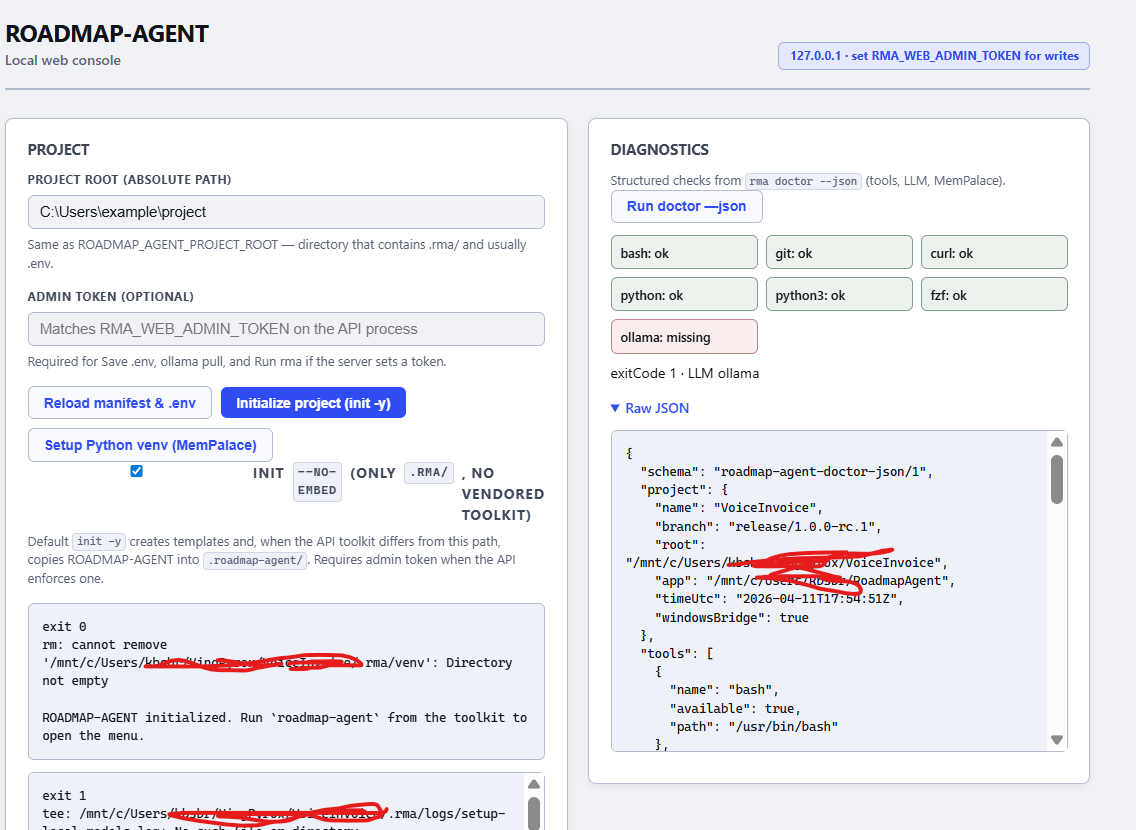
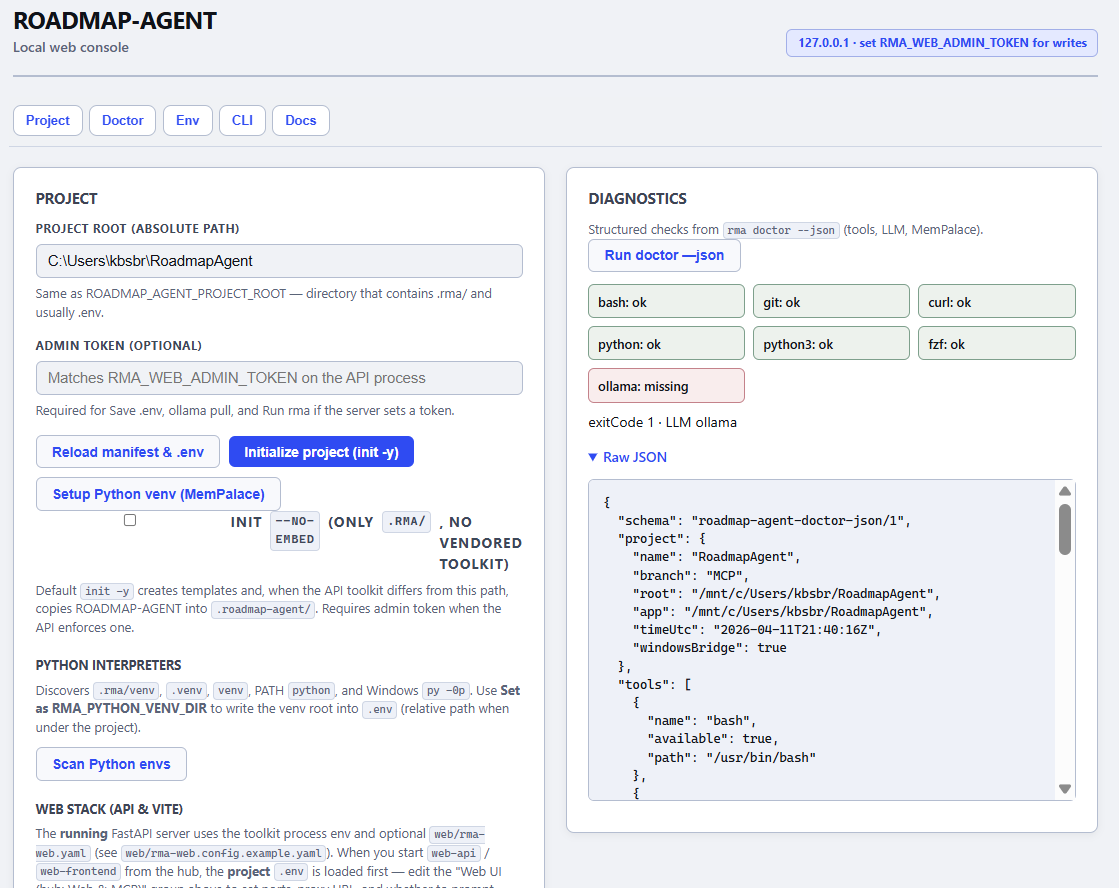
MCP implementation

diff --git a/web/frontend/src/envConfig.ts b/web/frontend/src/envConfig.ts
@@ -137,7 +137,8 @@ export const ENV_HINTS: Record<string, string> = {
     '1 = if the API or Vite port is busy, prompt (y/N) to run fuser/lsof kill on that TCP port before starting. 0 = fail immediately.',
   RMA_WEB_VITE_PROXY_TARGET:
     'Full base URL for the API from the browser (e.g. http://127.0.0.1:8765). Exported when starting Vite so /api proxies correctly.',
-  RMA_MCP_TRANSPORT: 'MCP transport (default stdio). See docs/MCP-SERVER.md.',
+  RMA_MCP_TRANSPORT:
+    'CLI default when unset: streamable-http (background). Use stdio for Cursor/Claude command MCP. See docs/MCP-SERVER.md.',
   RMA_MCP_NAME: 'Display name of the MCP server for hosts.',
   RMA_MCP_ALLOW_SHELL: '1 = allow run_shell tool (use only on trusted projects).',
   RMA_MCP_PROJECT_ROOT: 'Optional project path override for MCP (relative or absolute).',
@@ -146,7 +147,7 @@ export const ENV_HINTS: Record<string, string> = {
   RMA_MCP_HOST: 'Bind address for streamable-http / sse (default 127.0.0.1).',
   RMA_MCP_PORT: 'TCP port for streamable-http / sse (default 8767).',
   RMA_MCP_DETACH:
-    '1 = mcp-start runs the HTTP MCP server in the background (nohup); log under .rma/mcp/nohup.log. stdio cannot detach.',
+    'CLI default when unset: 1 (HTTP MCP via nohup; .rma/mcp/nohup.log). 0 or mcp-start --foreground keeps the shell. Ignored for stdio.',
   RMA_MCP_FORCE:
     '1 = before starting, stop the MCP PID from .rma/mcp/runtime.json (best-effort). Use when replacing a stuck server.',
 }

diff --git a/rma_mcp/server.py b/rma_mcp/server.py
@@ -225,6 +225,7 @@ def run_shell(command: str, timeout_seconds: int = 120) -> str:
 
 
 def main() -> None:
+    # Default stdio when env unset — `mcp-start` sets RMA_MCP_TRANSPORT explicitly (default streamable-http there).
     transport = os.environ.get("RMA_MCP_TRANSPORT", "stdio").strip().lower()
     os.environ.setdefault("ROADMAP_AGENT_PROJECT_ROOT", str(project_root()))
     os.environ.setdefault("ROADMAP_AGENT_APP_ROOT", str(app_root()))

diff --git a/rma_mcp/__main__.py b/rma_mcp/__main__.py
@@ -1,4 +1,4 @@
-"""python -m rma_mcp (stdio MCP server by default)."""
+"""python -m rma_mcp (RMA_MCP_TRANSPORT; default stdio when unset — use mcp-start for HTTP defaults)."""
 
 from rma_mcp.server import main
 

diff --git a/README.md b/README.md
@@ -33,7 +33,7 @@
 | **[`CHANGELOG.md`](CHANGELOG.md)** | Release history — pair with **`VERSION`** and git tags (`v1.0.0`, …). |
 | **[`docs/RELEASING.md`](docs/RELEASING.md)** | Shipping — tags, GitHub releases, archives, Docker; no required binary artifact. |
 | **[`web/README.md`](web/README.md)** | Optional web UI — FastAPI + React, guided/advanced `.env` editor, `doctor --json`, model probes, Docker, **`VITE_DOCS_BASE`**. |
-| **[`docs/MCP-SERVER.md`](docs/MCP-SERVER.md)** | **MCP** (Model Context Protocol) — stdio server for Cursor/Claude/etc.: `.rma/` context, `rma plan`/`analyze`, scoped file tools, optional shell. |
+| **[`docs/MCP-SERVER.md`](docs/MCP-SERVER.md)** | **MCP** — default **streamable-http** (background) from the CLI; **stdio** for Cursor/Claude command config. `.rma/` context, `rma plan`/`analyze`, scoped file tools, optional shell. |
 
 Project memory lives in **`.rma/`**; plans and execution run from the **terminal** with **local LLMs** (Ollama by default) when you want repo-aware help — **no** hosted dashboard or vendor lock-in for the core workflow.
                                                                                                                                                                   
@@ -83,7 +83,7 @@ This stack is **local-first**: a **desktop MCP host** (Claude Desktop, Cursor, W
 
 - **Resource URI** is **`roadmap://context`**, not a separate `context://` scheme. The bundle is **Markdown from `.rma/`** — it does **not** auto-inject MemPalace vector hits. For retrieval-aware **plan** generation inside the CLI, use **`plan`** with an indexed **`.rma/mempalace`** (wake-up) as documented elsewhere; from MCP you can run **`rma_doctor`**, **`read_project_file`**, or **`run_shell`** (if enabled) toward the same goals.
 - **There is no `RMA_MCP_APPROVAL_MODE` env var** in this repo. Risk is mitigated by **keeping `RMA_MCP_ALLOW_SHELL=0`**, relying on your **host’s tool-approval UI**, and reading **`docs/MCP-SERVER.md`** for transport and logging (**`.rma/mcp/logs/`**).
-- **Suggested `.env` for capable local models:** `RMA_MCP_TRANSPORT=stdio`, optional `RMA_MCP_ALLOW_SHELL=1` only on trusted trees, and **`RMA_MCP_MAX_STEPS`** as a hint to clients (not enforced server-side). Use **`rma mcp-start --detach`** / **`RMA_MCP_DETACH=1`** with **`streamable-http`** or **`sse`** if you need a background URL (see **`docs/MCP-SERVER.md`**).
+- **Defaults:** `RMA_MCP_TRANSPORT=streamable-http` and **`RMA_MCP_DETACH=1`** (hub/`mcp-start` release the terminal; URL in **`.rma/mcp/runtime.json`**). For **stdio** hosts, set **`RMA_MCP_TRANSPORT=stdio`** and **`RMA_MCP_DETACH=0`**. Optional **`RMA_MCP_ALLOW_SHELL=1`** only on trusted trees; **`RMA_MCP_MAX_STEPS`** is a client hint (see **`docs/MCP-SERVER.md`**).
 
 **Bootstrap:** from the project root, `./RUN.sh mcp-start` or `.\RUN.ps1 mcp-start` (after your usual venv bootstrap) or configure the host to run `python -m rma_mcp` with **`PYTHONPATH`** and **`ROADMAP_AGENT_*_ROOT`** set — see **`rma_mcp/client-config.example.json`**.
 
@@ -180,7 +180,7 @@ RoadmapAgent/
     ROADMAP-WORKFLOW.md
     ARCHITECTURE.md
     TROUBLESHOOTING.md
-    MCP-SERVER.md            # MCP host setup, tools, safety (stdio / streamable-http)
+    MCP-SERVER.md            # MCP host setup, tools, safety (default HTTP+detach; stdio opt-in)
     MANUAL.md                # Detailed operator manual (usage, .rma editing, commands)
     man/
       roadmap-agent.1
@@ -392,7 +392,7 @@ That script rebuilds `$env:Path` from the Machine + User registry values (the sa
 - `unlock` - remove locked state.
 - `persistence` / `persistance` - check/install persistence mode.
 - `persistence-check` - check if persistence/global command wiring exists.
-- `mcp-start` - run the optional **Model Context Protocol** server (stdio by default; optional **`--detach`** / **`--force`** with HTTP transports); hub: **Web & MCP**. See **[`docs/MCP-SERVER.md`](docs/MCP-SERVER.md)** and [MCP + local LLM + IDE agents](#mcp-server-local-llm-and-ide-agents-how-they-fit-together) above.
+- `mcp-start` - run the **MCP** server (defaults: **streamable-http** + background; **`--foreground`** / **`RMA_MCP_DETACH=0`** to block the shell; **`--force`**; **stdio** via `.env`). Hub: **Web & MCP**. See **[`docs/MCP-SERVER.md`](docs/MCP-SERVER.md)** and [MCP + local LLM + IDE agents](#mcp-server-local-llm-and-ide-agents-how-they-fit-together) above.
 - `help`, `-h`, `--help` - command help.
 - default (no command): open interactive menu.
 

diff --git a/DOCS/MCP-SERVER.md b/DOCS/MCP-SERVER.md
@@ -4,7 +4,7 @@ ROADMAP-AGENT can expose a **local MCP server** so Cursor, Claude Desktop, Winds
 
 - **Protocol:** [Model Context Protocol](https://modelcontextprotocol.io)  
 - **SDK:** Python `mcp[cli]` (see `requirements-mcp.txt`)  
-- **Entry:** `rma mcp-start` or hub **Web & MCP → MCP server** (stdio)
+- **Entry:** `rma mcp-start` or hub **Web & MCP → MCP server** (defaults: **streamable-http** + background)
 
 ## Prerequisites
 
@@ -36,10 +36,10 @@ The interactive hub banner and **runtime warnings** panel print a one-line MCP s
 | `ROADMAP_AGENT_APP_ROOT` | auto | Toolkit root (set by `mcp-start`). |
 | `ROADMAP_AGENT_PROJECT_ROOT` | cwd / `mcp-start` | Managed repo with `.rma/`. |
 | `RMA_MCP_PROJECT_ROOT` | — | Optional relative (to shell `ROOT_DIR`) or absolute override for project root. |
-| `RMA_MCP_TRANSPORT` | `stdio` | `stdio`, or HTTP modes such as `streamable-http` / `sse` (see MCP SDK). |
+| `RMA_MCP_TRANSPORT` | `streamable-http` | `streamable-http` / `sse`, or `stdio` for command-based hosts (see MCP SDK). |
 | `RMA_MCP_HOST` | `127.0.0.1` | Bind address for HTTP transports. |
 | `RMA_MCP_PORT` | `8767` | TCP port for HTTP transports. |
-| `RMA_MCP_DETACH` | `0` | `1` or `mcp-start --detach`: run HTTP MCP in background (`nohup`); see `.rma/mcp/nohup.log`. |
+| `RMA_MCP_DETACH` | `1` | `0` or `mcp-start --foreground`: block shell on HTTP. `1` / `--detach`: `nohup` (see `.rma/mcp/nohup.log`). Ignored for stdio. |
 | `RMA_MCP_FORCE` | `0` | `1` or `mcp-start --force`: stop PID in `.rma/mcp/runtime.json` before bind (best-effort). |
 | `RMA_MCP_NAME` | `roadmap-agent` | Server name. |
 | `RMA_MCP_ALLOW_SHELL` | `0` | Set `1` to enable **`run_shell`** (dangerous). |
@@ -68,7 +68,7 @@ All `RMA_MCP_*` keys are whitelisted in **`load_rma_env_file()`** (see `.env.exa
 ## Limitations
 
 - MCP client and model quality vary; strong tool-calling models work best.
-- **HTTP** transport is optional and depends on MCP SDK version; **stdio** is the most portable path for desktop MCP hosts.
+- **HTTP** transport depends on MCP SDK version; **`mcp-start`** defaults to **streamable-http** + background. **stdio** remains the most portable option for **command-based** desktop hosts (`python -m rma_mcp` with **`RMA_MCP_TRANSPORT=stdio`** or unset).
 - Shell tools require **bash** for `roadmap-agent.sh`.
 
 ## References

diff --git a/DOCS/MANUAL.md b/DOCS/MANUAL.md
@@ -526,9 +526,9 @@ ROADMAP-AGENT ships **`rma_mcp`**: a **FastMCP** server that reads your **`.rma/
 ### How to start it
 
 - **CLI:** **`roadmap-agent mcp-start`** (or **`rma mcp-start`**).
-- **Hub:** run **`roadmap-agent`** with no args → **Web & MCP** → **MCP server (stdio)**.
+- **Hub:** run **`roadmap-agent`** with no args → **Web & MCP** → **MCP server** (defaults: **streamable-http** + background).
 
-The shell entry installs **`requirements-mcp.txt`** into **`.rma/venv`** on first use if the **`mcp`** import fails, sets **`ROADMAP_AGENT_PROJECT_ROOT`** / **`ROADMAP_AGENT_APP_ROOT`**, **`PYTHONPATH`** to the toolkit root, and runs **`python -m rma_mcp`**. Default transport is **stdio** (what most hosts expect). Optional **`RMA_MCP_TRANSPORT`** values include **`streamable-http`** and **`sse`** per the SDK.
+The shell entry installs **`requirements-mcp.txt`** into **`.rma/venv`** on first use if the **`mcp`** import fails, sets **`ROADMAP_AGENT_PROJECT_ROOT`** / **`ROADMAP_AGENT_APP_ROOT`**, **`PYTHONPATH`** to the toolkit root, and runs **`python -m rma_mcp`**. **`mcp-start`** defaults to **`streamable-http`** with **`RMA_MCP_DETACH=1`** (terminal released; **`python -m rma_mcp`** alone still defaults to **stdio** when **`RMA_MCP_TRANSPORT`** is unset). Optional **`RMA_MCP_TRANSPORT`** values include **`stdio`**, **`streamable-http`**, and **`sse`** per the SDK.
 
 ### Configure your MCP host
 

diff --git a/CHANGELOG.md b/CHANGELOG.md
@@ -15,6 +15,7 @@ The format is inspired by [Keep a Changelog](https://keepachangelog.com/en/1.1.0
 
 - **`RUN.sh` / `RUN.ps1`**: help examples include **`mcp-start`** / **`mcp-start --detach`** so bootstrap + MCP is discoverable from the root runners.
 - **`docs/MANUAL.md`**, **`docs/ARCHITECTURE.md`**: MCP sections mention **`rma_sysinfo`** and clarify **`roadmap://context`** vs MemPalace.
+- **MCP CLI defaults**: **`RMA_MCP_TRANSPORT`** defaults to **`streamable-http`** and **`RMA_MCP_DETACH`** to **`1`** (hub releases the terminal; logs under **`.rma/mcp/nohup.log`**). **`mcp-start --foreground`** / **`--no-detach`** blocks on HTTP. **`load_rma_env_file()`** applies all **`RMA_*`** defaults even when **`.env`** is missing. **`stdio`** remains available via **`.env`** or client env; all **`mcp-start`** messages before **`exec`** go to **stderr** so JSON-RPC on stdout is not corrupted.
 
 ## [1.0.1] - 2026-04-11
 
